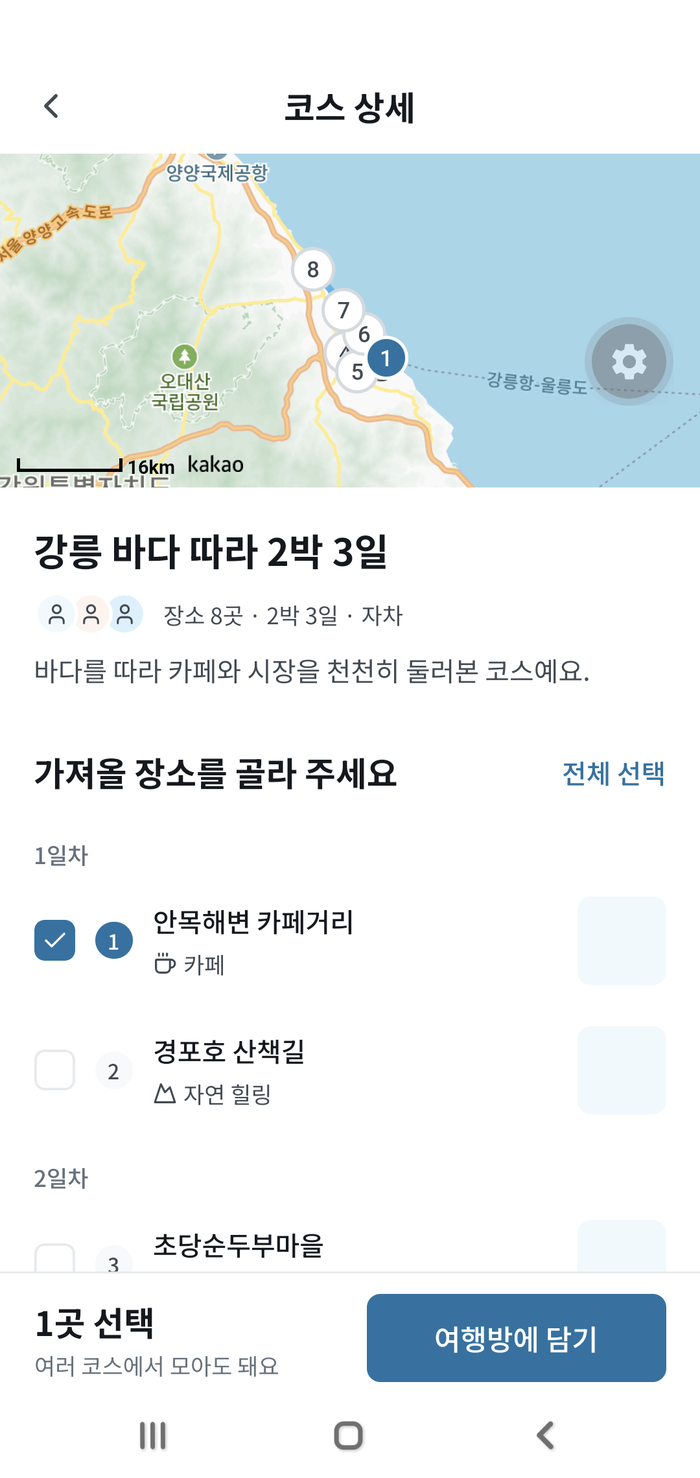
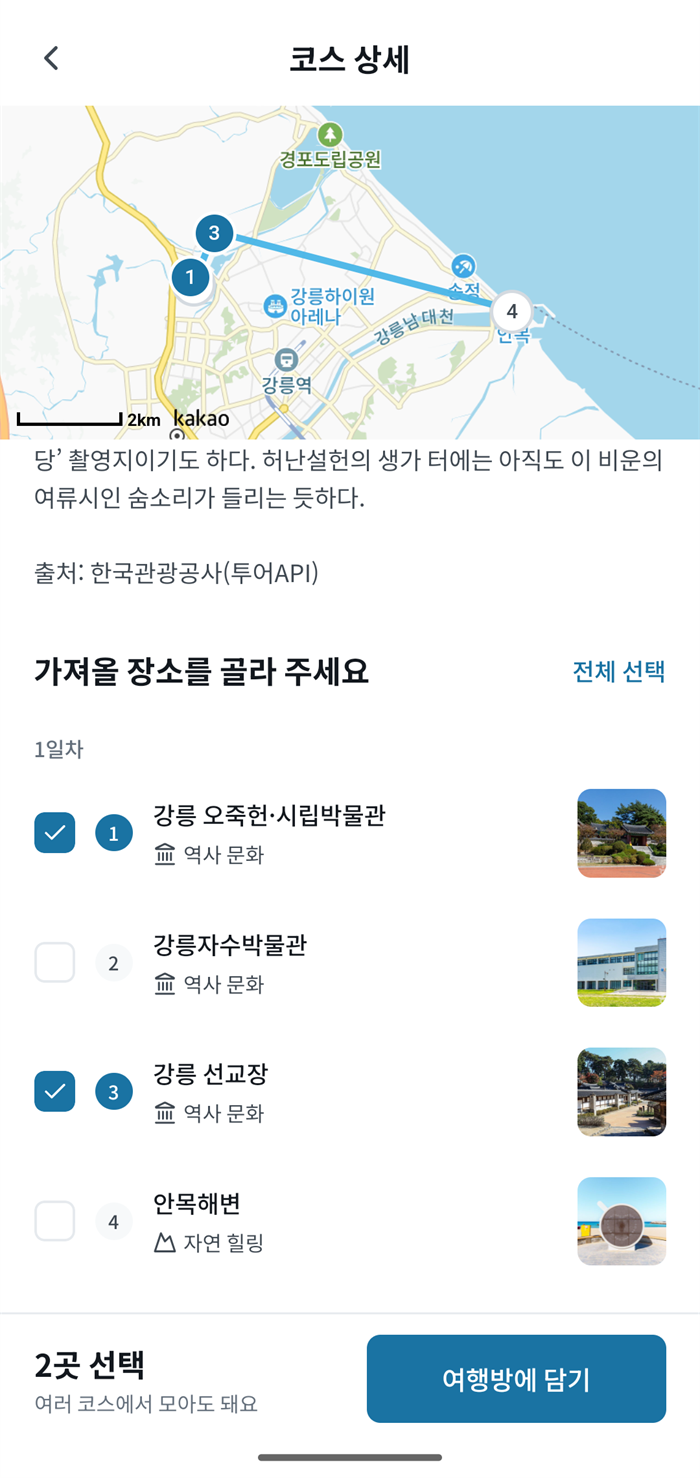
docs: README 코스 화면을 실제 서버 캡처로 교체
주요 화면의 "코스에서 장소 고르기" 캡처가 개발용 목 데이터 화면이라 장소 사진 자리가 빈 칸으로 보였다. 목 장소에는 사진 주소가 없기 때문이다.
실제 서버의 강릉 코스(관광공사 TourAPI 사진 표시)에서 네 장소 중 두 곳을 고른 화면으로 바꾸고, 대체 텍스트와 설명 문구를 그 화면에 맞췄다.
- 캡처 크기는 기존과 같은 700x1478이다. Android 에뮬레이터(Pixel 7, 배포 키 서명 APK)에서 찍었다.
- 머리글 문장에 코스 화면만 실제 서버 화면이라는 점을 적었다. 나머지 세 화면은 그대로다.
- "공개할 코스 미리보기"는 실제 서버에 여행 기록이 없어 바꾸지 않았다.

Related to: S15P31A109-232

diff --git a/README.md b/README.md
@@ -55,12 +55,12 @@
 
 ## 주요 화면
 
-Android 앱에서 예시 여행을 열어 본 화면입니다. 발자취 GIF는 지도를 확대해 방명록을 읽는 과정을 캡처한 세 장을 이어 붙였습니다.
+Android 앱 화면입니다. 코스 화면은 실제 서버에서 받은 관광공사 코스이고, 나머지는 예시 여행을 열어 본 화면입니다. 발자취 GIF는 지도를 확대해 방명록을 읽는 과정을 캡처한 세 장을 이어 붙였습니다.
 
 |                                                      코스에서 장소 고르기                                                      |                                                        내 발자취에서 방명록 열기                                                        |
 | :----------------------------------------------------------------------------------------------------------------------------: | :-------------------------------------------------------------------------------------------------------------------------------------: |
-| <img src="assets/yeogirok/course.png" width="290" alt="강릉 바다 따라 2박 3일 코스에서 안목해변 카페거리 한 곳을 선택한 화면"> | <img src="assets/yeogirok/footprints.gif" width="290" alt="발자취가 모인 지도를 확대하고 안목해변 방문 당일의 개인 방명록을 여는 과정"> |
-|                           강릉 코스의 여덟 장소 중 안목해변 카페거리 한 곳만 골라 여행방에 담습니다.                           |          발바닥 안의 숫자는 그 주변에 남긴 발자취 수입니다. 방문 목록에서 안목해변을 열면 그날의 메모를 다시 읽을 수 있습니다.          |
+| <img src="assets/yeogirok/course.png" width="290" alt="강릉 오죽헌과 선교장을 도는 코스에서 네 장소 중 두 곳을 선택한 화면"> | <img src="assets/yeogirok/footprints.gif" width="290" alt="발자취가 모인 지도를 확대하고 안목해변 방문 당일의 개인 방명록을 여는 과정"> |
+|                           강릉 코스의 네 장소 중 오죽헌과 선교장 두 곳만 골라 여행방에 담습니다. 장소 사진은 한국관광공사 TourAPI에서 받습니다.                           |          발바닥 안의 숫자는 그 주변에 남긴 발자취 수입니다. 방문 목록에서 안목해변을 열면 그날의 메모를 다시 읽을 수 있습니다.          |
 
 |                                                           카메라로 AR 팁 배치하기                                                           |                                                                  공개할 코스 미리보기                                                                  |
 | :-----------------------------------------------------------------------------------------------------------------------------------------: | :----------------------------------------------------------------------------------------------------------------------------------------------------: |
